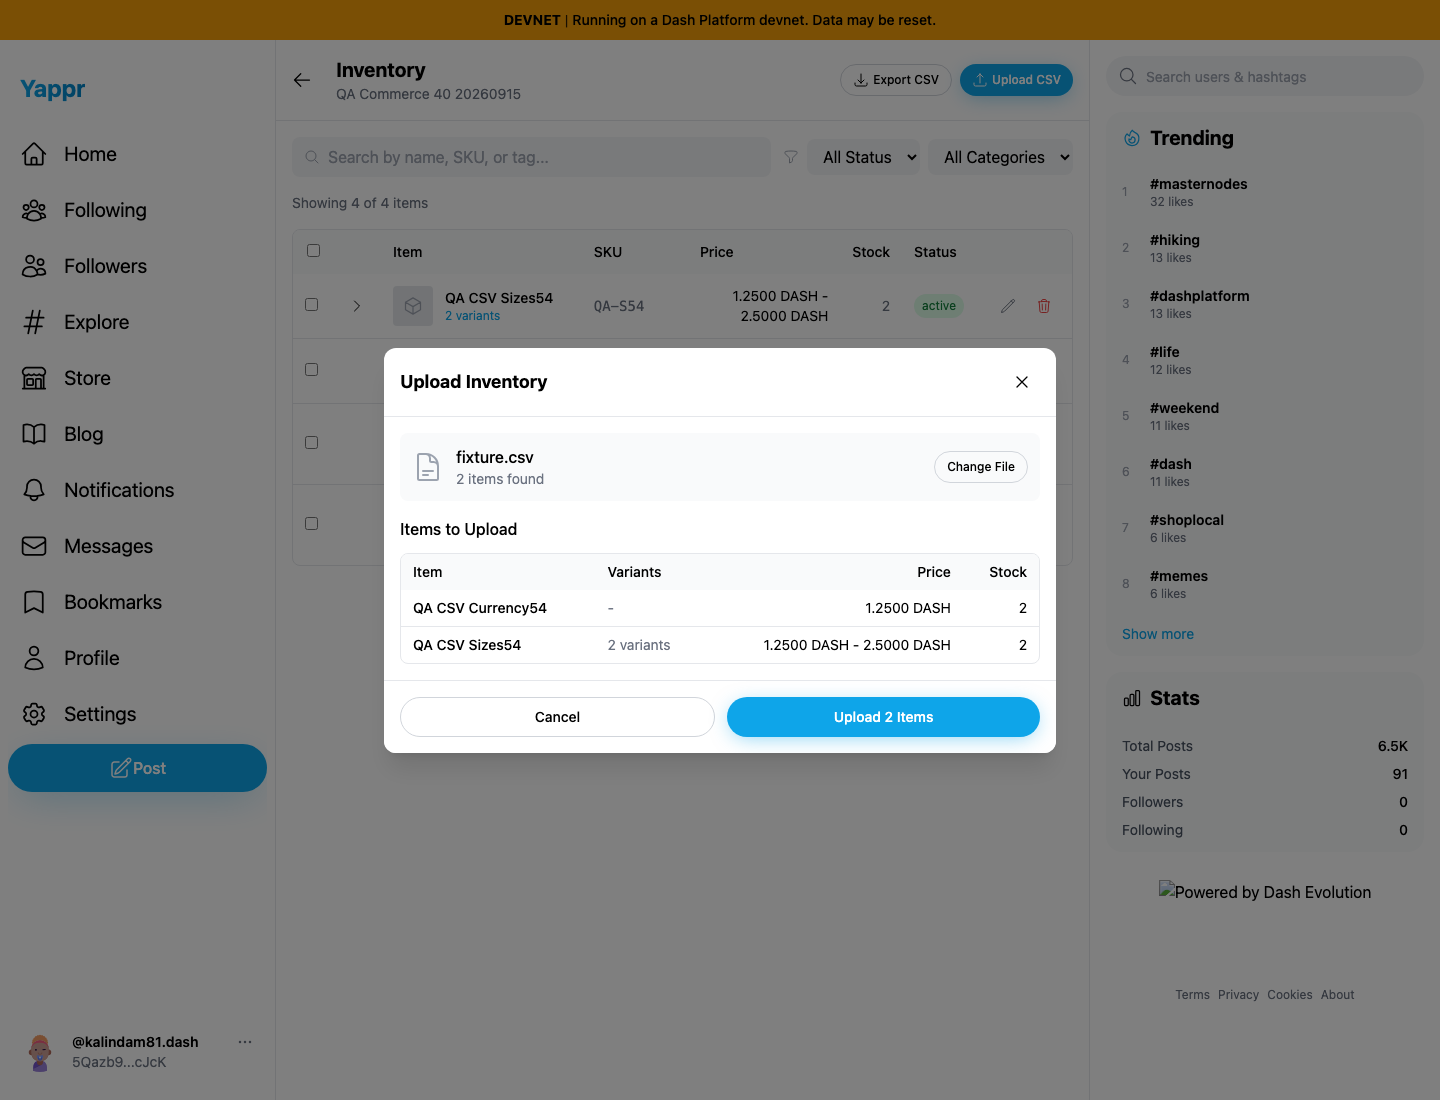
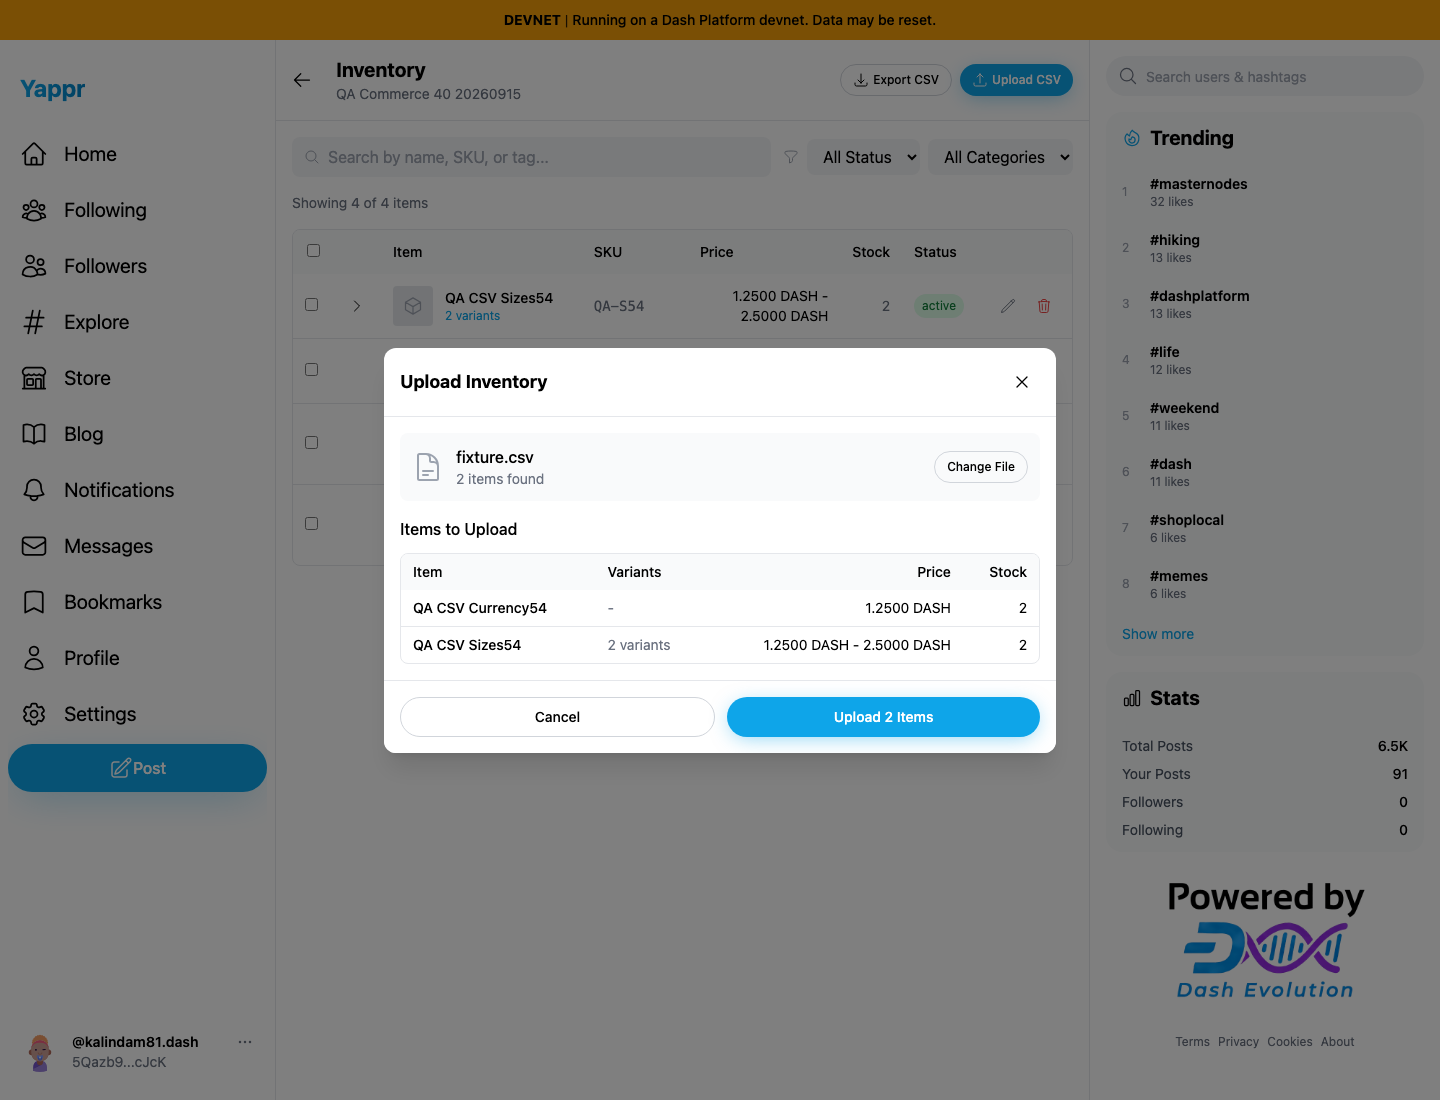
docs(yappr): refresh PR 457 evidence after review

Changed region(s): [[0.8125, 0.8036, 0.9688, 0.9273]]

diff --git a/yappr/pr-457/README.md b/yappr/pr-457/README.md
@@ -1,6 +1,6 @@
 # Yappr #457 — inventory CSV currency units
 
-Exact captured staging base `eb895be71a7207c73fb9329ac9d9bb7b398f53da`; full PR head `f31f6657e764f366113a879d47ae1d79ff7198a8`. Independent `npm run build:devnet` outputs in separate worktrees. Fresh Chromium contexts at 1440×1100, scale 1, light theme, en-US, America/Chicago. The modal screenshot is a native element capture; no resizing or annotations.
+Exact captured staging base `eb895be71a7207c73fb9329ac9d9bb7b398f53da`; full PR head `e02a2bfa4676b96e8fa72b26cfb68eec4bf362e1`. Independent `npm run build:devnet` outputs in separate worktrees. Fresh Chromium contexts at 1440×1100, scale 1, light theme, en-US, America/Chicago. The modal screenshot is a native element capture; no resizing or annotations.
 
 Same seller40 (`5Qazb9Ncc7LgLSSWkPj36Qpp5ZpEoQEcHNR2Ync7cJcK`), DASH store (`98FYBhEF9Q8xNzbamzy66Dm5cMQ5gm9MoAZaiy518sNp`), and exact [input CSV](fixture.csv). Its single product price is **1.25 DASH**, with variant prices **1.25 and 2.50 DASH**. Both preview screenshots are unsubmitted. These same synthetic products already exist from the earlier roundtrip checks; captures were cancelled without duplicate writes. No product DOM or API mocks. Dedicated QA auth restored; no secrets shown.
 
@@ -18,7 +18,7 @@ Same seller40 (`5Qazb9Ncc7LgLSSWkPj36Qpp5ZpEoQEcHNR2Ync7cJcK`), DASH store (`98F
 
 The base parser turns1.25 into125duffs; a real baseline upload independently opened as **0.00000125 DASH** in the editor. The corrected upload opens as **1.25000000 DASH**. This is a persisted value error, not only a formatting change.
 
-The actual Platform write/readback checks below were completed at prior reviewed implementation head `92c1f40ef3ce96fe35b50403360f6adc3881abb6`. The only subsequent code change is the displayed currency help line; parser/export source remains identical. Current screenshots were recaptured at the final head. Those earlier roundtrip checks used isolated synthetic products, without changing the preexisting product40:
+The actual Platform write/readback checks below were completed at prior reviewed implementation head `92c1f40ef3ce96fe35b50403360f6adc3881abb6`. The subsequent changes name the store currency in the displayed CSV help and correct the source-only price-unit comment. Runtime parser/export logic remains identical. The four after screenshots were recaptured at the final head; the four original exact-base screenshots are retained. The new comment has no visual or runtime delta. The historical full-context base images have a missing sidebar logo from the original capture server; that unrelated asset differs from the refreshed after context and is not part of this fix. Focused modal pairs use identical framing. Those earlier roundtrip checks used isolated synthetic products, without changing the preexisting product40:
 
 - DASH single product `9Tshw8avzu4My9S86kDg9XTMjo4ukNrVTUFGbyKZJ9Qk`; variant product `38M9XgzPqHBZu1ABvoiceRA31eAJ8NW3hhryTPt6MWM1`. After upload, fresh inventory and editor retained1.25; actual export retains1.25000000 and2.50000000. Reimport of the actual downloaded file shows the same intended amounts, then Cancel avoids duplicate writes. [DASH checks](DASH-roundtrip.json).
 - USD QA store `CM5fhHWoXy9hk3UMtLQdiQphp2LyTpmBWsRanrakYLaD`, owner buyer52 `5rxCEiuGfwPkYFQ94mvxDaDG7W7dEdpU2zhq7aTLJ1cM`, product `CtPyBrfgEVGDQBz8uodjBiBHtRkiysCKpfhJtEYBoMLY`. Created through the real store form; no payment method configured. Import/export/reimport and fresh editor retained **1.25 USD**. [USD checks](USD-roundtrip.json).
@@ -33,21 +33,23 @@ Actual downloaded files: [DASH before](DASH-base-export.csv) · [DASH after](DAS
 
 Validation: nine meaningful parser regressions (DASH/BTC eight-decimal units, fiat cents, one duff, variants/minimum price, nonfinite and unsafe amounts), targeted ESLint, standalone TypeScript, devnet build, and independent final source review passed. Existing currency helpers remove duplicate conversion assumptions; no new abstraction or unrelated cleanup. No payment or shipping transaction occurred during this test.
 
+
+Final-head review correction: `e02a2bfa4676b96e8fa72b26cfb68eec4bf362e1` changes only the `ParsedInventoryRow.price` comment. Nine parser tests, targeted ESLint and committed devnet production build passed again. The current CI devnet topology job is non-blocking and reports success despite a preexisting failed root-post/reply test caused by mismatched CI credentials; no full CI E2E-pass claim is made.
+
 ## SHA-256
 
[19 lines of base64/hex data omitted]
